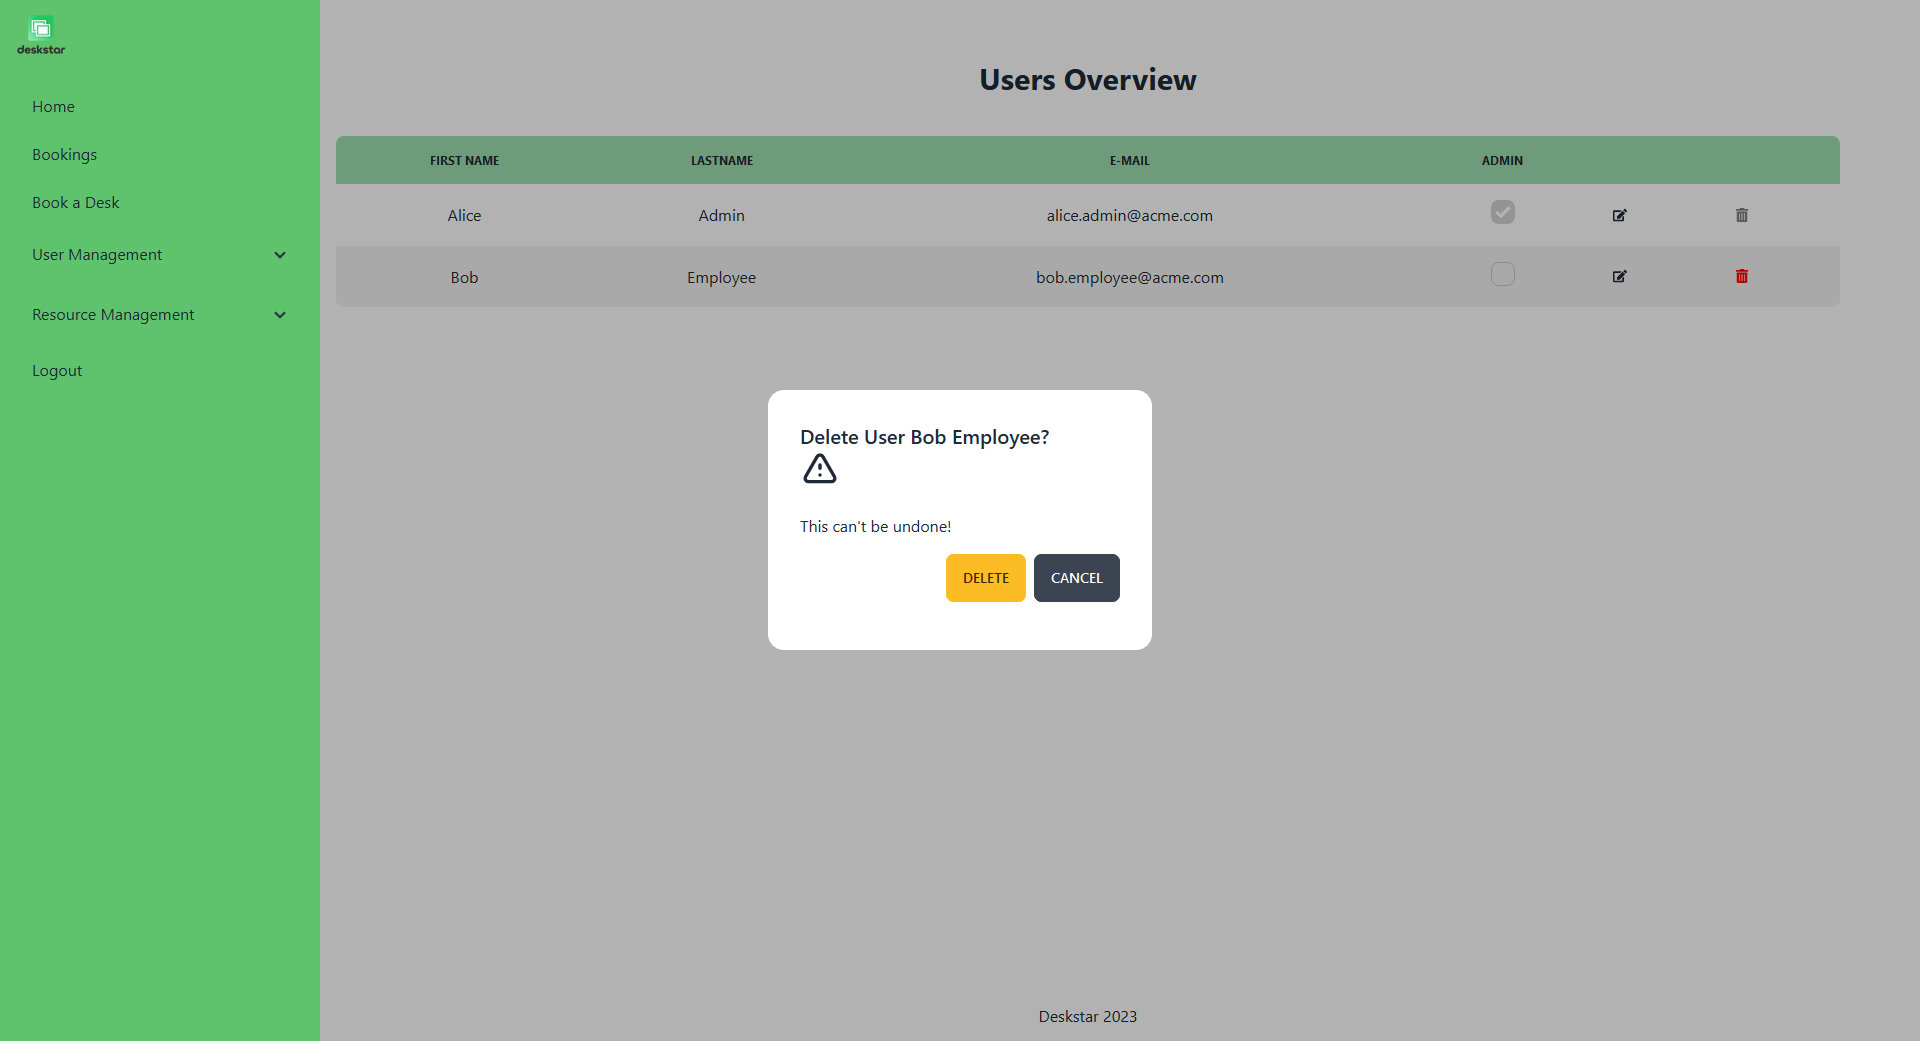
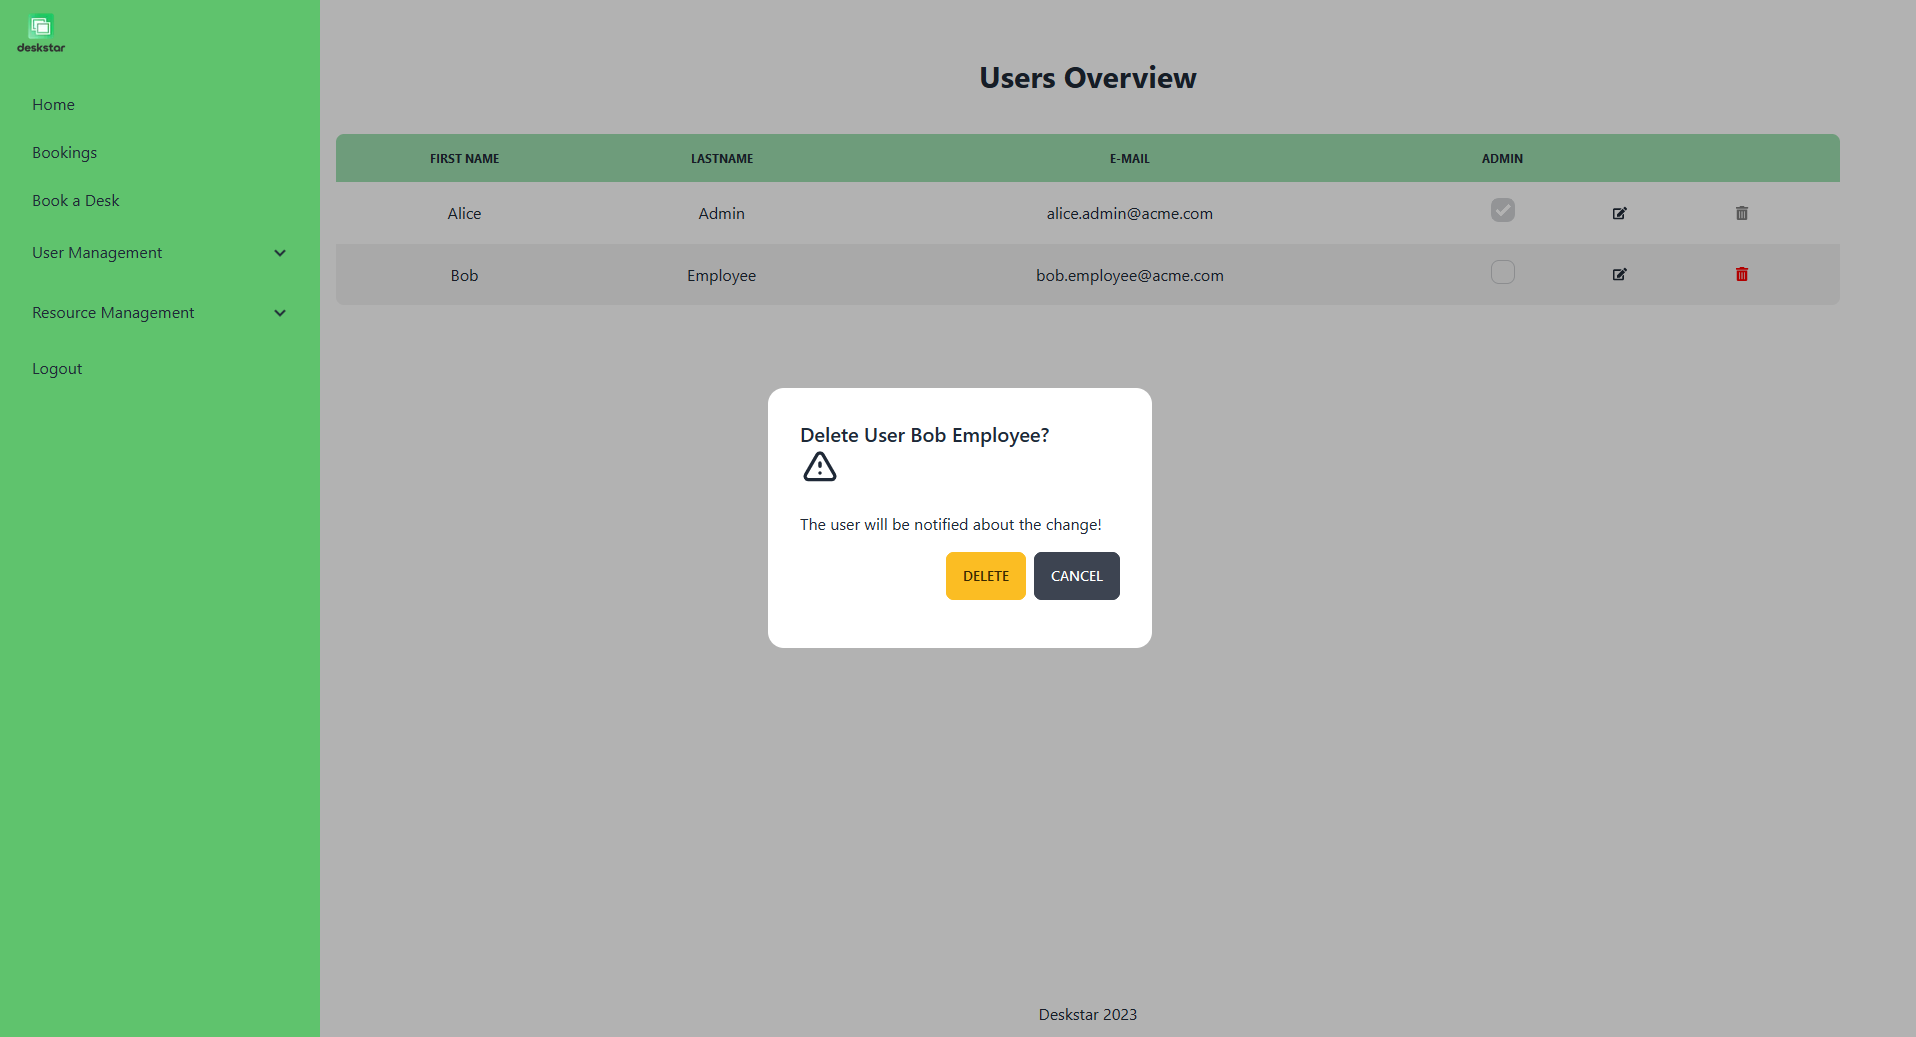
update delete modals

diff --git a/src/deskstar-frontend/pages/resources/index.tsx b/src/deskstar-frontend/pages/resources/index.tsx
@@ -417,7 +417,7 @@ const ResourceOverview = ({
           )}
           <ConfirmModal
             title={"Delete Desktype " + deskType?.deskTypeName + "?"}
-            description="This can't be undone!"
+            description="This be undone!"
             text=""
             warn
             buttonText="DELETE"
@@ -438,7 +438,7 @@ const ResourceOverview = ({
           )}
           <ConfirmModal
             title={"Delete Desk " + desk?.deskName + "?"}
-            description="This can't be undone!"
+            description="This might affect some bookings!"
             text=""
             warn
             buttonText="DELETE"
@@ -459,7 +459,7 @@ const ResourceOverview = ({
           )}
           <ConfirmModal
             title={"Delete Room " + room?.roomName + "?"}
-            description="This can't be undone!"
+            description="This might affect some bookings!"
             text=""
             warn
             buttonText="DELETE"
@@ -480,7 +480,7 @@ const ResourceOverview = ({
           )}
           <ConfirmModal
             title={"Delete Floor " + floor?.floorName + "?"}
-            description="This can't be undone!"
+            description="This might affect some bookings!"
             text=""
             warn
             buttonText="DELETE"
@@ -502,7 +502,7 @@ const ResourceOverview = ({
           )}
           <ConfirmModal
             title={"Delete Building " + building?.buildingName + "?"}
-            description="This can't be undone!"
+            description="This might affect some bookings!"
             text=""
             warn
             buttonText="DELETE"

diff --git a/src/deskstar-frontend/pages/users/index.tsx b/src/deskstar-frontend/pages/users/index.tsx
@@ -131,7 +131,7 @@ export default function UsersOverview({ users }: { users: IUser[] }) {
       />
       <ConfirmModal
         title={"Delete User " + user?.firstName + " " + user?.lastName + "?"}
-        description="This can't be undone!"
+        description="The user will be notified about the change!"
         text=""
         warn
         buttonText="DELETE"
